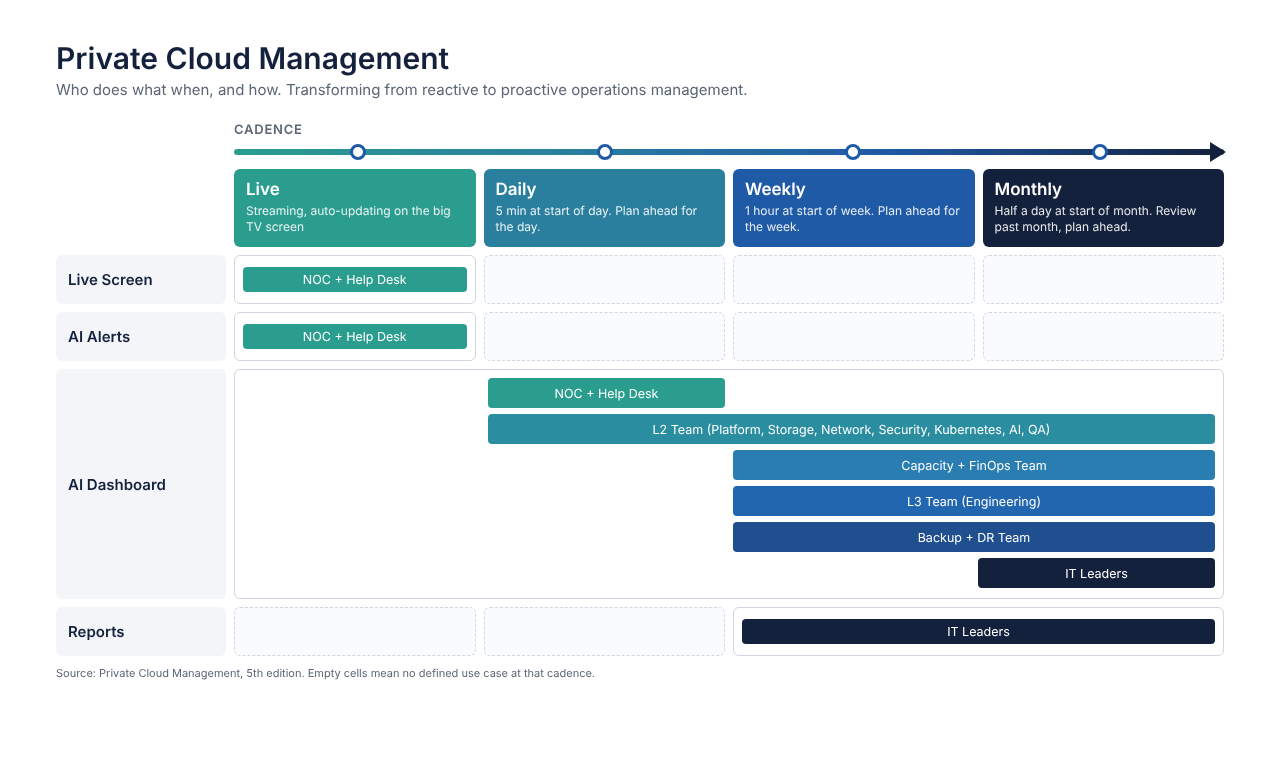
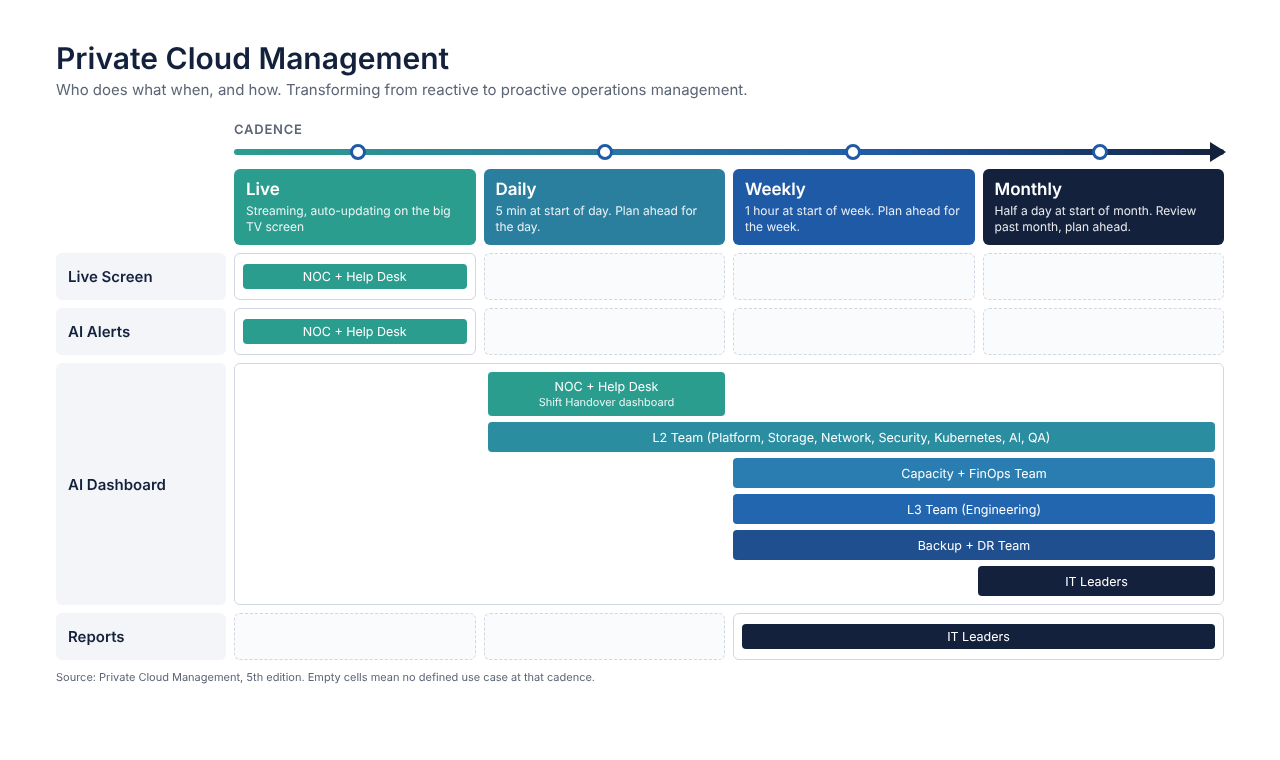
Add Shift Handover dashboard note to NOC + Help Desk
Claude-Session: https://claude.ai/code/session_01JZFwAkxJJ1hBKiNJsBLNLC

diff --git a/media/cadence-map.html b/media/cadence-map.html
@@ -64,7 +64,7 @@
     grid-column: 2 / 6;
     display: grid;
     grid-template-columns: repeat(4, 1fr);
-    grid-template-rows: repeat(6, 30px);
+    grid-template-rows: 44px repeat(5, 30px);
     gap: 6px 8px;
     border: 1px solid var(--line); border-radius: 6px;
     padding: 8px;
@@ -168,7 +168,7 @@
 
   <div class="rowlabel">AI Dashboard</div>
   <div class="dash">
-    <span class="tag noc" style="grid-column:2 / 3; grid-row:1">NOC + Help Desk</span>
+    <span class="tag noc" style="grid-column:2 / 3; grid-row:1; flex-direction:column; line-height:1.3">NOC + Help Desk<small style="font-size:11px; opacity:.9">Shift Handover dashboard</small></span>
     <span class="tag l2" style="grid-column:2 / 5; grid-row:2">L2 Team (Platform, Storage, Network, Security, Kubernetes, AI, QA)</span>
     <span class="tag cap" style="grid-column:3 / 5; grid-row:3">Capacity + FinOps Team</span>
     <span class="tag l3" style="grid-column:3 / 5; grid-row:4">L3 Team (Engineering)</span>
